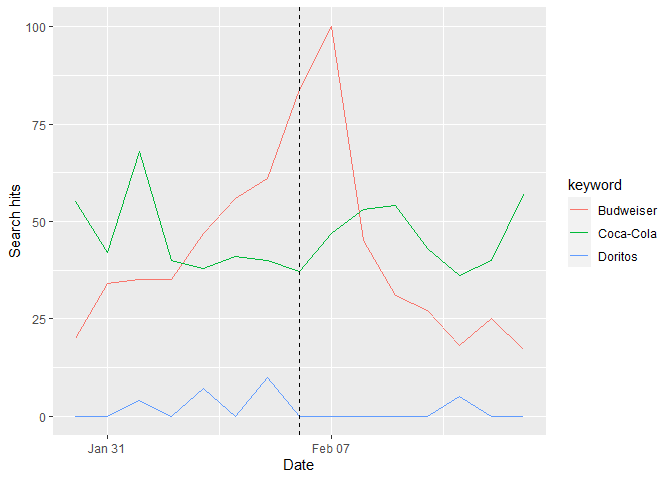
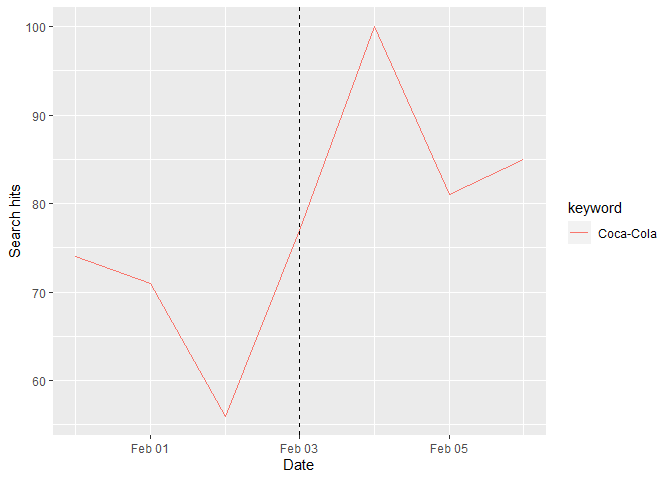
ahhhhh

diff --git a/README.md b/README.md
@@ -18,18 +18,18 @@ general <- get_general_data() # ads categories, e.g., beer, car and etc
   returns the dates where a brand had ads on the Superbowl
 
 ``` r
-brand <-  "Coca-Cola"
-dates <-  search_dates(brand)
+brand <- "Coca-Cola"
+dates <- search_dates(brand)
 head(dates)
 ```
 
     ##         date
-    ## 1 2004-02-01
-    ## 2 2005-02-06
-    ## 3 2006-02-05
-    ## 4 2007-02-04
-    ## 5 2008-02-03
-    ## 6 2009-02-01
+    ## 1 2007-02-04
+    ## 2 2008-02-03
+    ## 3 2009-02-01
+    ## 4 2011-02-06
+    ## 5 2012-02-05
+    ## 6 2014-02-02
 
 - <code>search_brands</code>
 
@@ -50,23 +50,40 @@ brands
     ## 5 Pepsi         1
     ## 6 Toyota        1
 
-- <code>gtrends_plot</code>
+- gtopics(brands, time)
+
+  Works just like <code>gtrends</code> (from gtrendsR library) but shows
+  the results for the brand’s topic
+
+  ``` r
+  head(gtopics("Doritos","all")$interest_over_time)
+  ```
+
+      ##         date hits keyword geo time gprop category
+      ## 1 2004-01-01    9 Doritos  US  all   web        0
+      ## 2 2004-02-01    8 Doritos  US  all   web        0
+      ## 3 2004-03-01    7 Doritos  US  all   web        0
+      ## 4 2004-04-01    4 Doritos  US  all   web        0
+      ## 5 2004-05-01    8 Doritos  US  all   web        0
+      ## 6 2004-06-01    7 Doritos  US  all   web        0
+
+- <code>gtopics_plot(brands, date, rday=1)</code>
 
   Will display the google trends plot, where rday is the “radius” of
   days before and after the ad the you with to observe so following the
   examples above:
 
 ``` r
-gtrends_plot(brands=brand, date=dates[2,], rday=1)
+gtopics_plot(brands=brand, date=dates[2,], rday=1)
 ```
 
-![](README_files/figure-gfm/unnamed-chunk-4-1.png)<!-- -->
+![](README_files/figure-gfm/unnamed-chunk-5-1.png)<!-- -->
 
 ``` r
-gtrends_plot(brands=brand, date=dates[2,], rday=3)
+gtopics_plot(brands=brand, date=dates[2,], rday=3)
 ```
 
-![](README_files/figure-gfm/unnamed-chunk-4-2.png)<!-- -->
+![](README_files/figure-gfm/unnamed-chunk-5-2.png)<!-- -->
 
 \*The dashed line marks the Superbowl date
 
@@ -75,37 +92,37 @@ follows:
 
 ``` r
 brands_to_compare <- brands[1:3,]$brand # taking 3 companies from the exmaple above (Budweiser, Coca-Cola, Doritos)
-gtrends_plot(brands=brands_to_compare, date=dates[2,], rday=1)
+gtopics_plot(brands=brands_to_compare, date=dates[2,], rday=1)
 ```
 
-![](README_files/figure-gfm/unnamed-chunk-5-1.png)<!-- -->
+![](README_files/figure-gfm/unnamed-chunk-6-1.png)<!-- -->
 
 ``` r
-gtrends_plot(brands=brands_to_compare, date=dates[2,], rday=7)
+gtopics_plot(brands=brands_to_compare, date=dates[2,], rday=7)
 ```
 
-![](README_files/figure-gfm/unnamed-chunk-5-2.png)<!-- -->
+![](README_files/figure-gfm/unnamed-chunk-6-2.png)<!-- -->
 
-- <code>gtrends_topic</code>
+- <code>gtopics_r(brands, date, rday=1)</code>
 
   Returns the “RAW” tabular data of gtrends (while converting the brand
   name to the relevant topic)
 
 ``` r
-gtrends_topic(brands=brands_to_compare, date=dates[2,], rday=1)
+gtopics_r(brands=brands_to_compare, date=dates[2,], rday=1)
 ```
 
     ## $interest_over_time
     ##         date hits   keyword geo                  time gprop category
-    ## 1 2005-02-05   40 Coca-Cola  US 2005-02-05 2005-02-07   web        0
-    ## 2 2005-02-06   37 Coca-Cola  US 2005-02-05 2005-02-07   web        0
-    ## 3 2005-02-07   47 Coca-Cola  US 2005-02-05 2005-02-07   web        0
-    ## 4 2005-02-05   61 Budweiser  US 2005-02-05 2005-02-07   web        0
-    ## 5 2005-02-06   84 Budweiser  US 2005-02-05 2005-02-07   web        0
-    ## 6 2005-02-07  100 Budweiser  US 2005-02-05 2005-02-07   web        0
-    ## 7 2005-02-05   10   Doritos  US 2005-02-05 2005-02-07   web        0
-    ## 8 2005-02-06    0   Doritos  US 2005-02-05 2005-02-07   web        0
-    ## 9 2005-02-07    0   Doritos  US 2005-02-05 2005-02-07   web        0
+    ## 1 2008-02-02   56 Coca-Cola  US 2008-02-02 2008-02-04   web        0
+    ## 2 2008-02-03   77 Coca-Cola  US 2008-02-02 2008-02-04   web        0
+    ## 3 2008-02-04  100 Coca-Cola  US 2008-02-02 2008-02-04   web        0
+    ## 4 2008-02-02   20 Budweiser  US 2008-02-02 2008-02-04   web        0
+    ## 5 2008-02-03   32 Budweiser  US 2008-02-02 2008-02-04   web        0
+    ## 6 2008-02-04   82 Budweiser  US 2008-02-02 2008-02-04   web        0
+    ## 7 2008-02-02    6   Doritos  US 2008-02-02 2008-02-04   web        0
+    ## 8 2008-02-03   14   Doritos  US 2008-02-02 2008-02-04   web        0
+    ## 9 2008-02-04   78   Doritos  US 2008-02-02 2008-02-04   web        0
     ## 
     ## attr(,"class")
     ## [1] "gtrends" "list"
